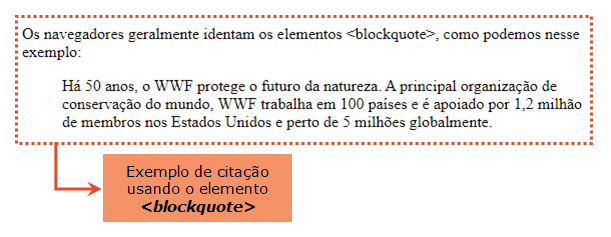
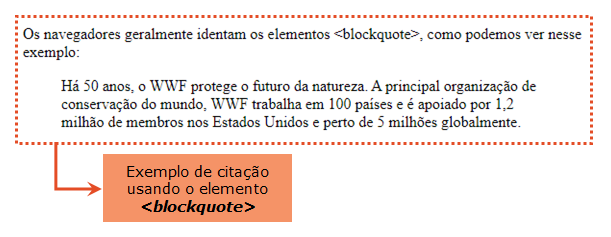
update img blockqoute
corrigi erro de escrita na fig, código e readme

Changed region(s): [[0.0933, 0.3249, 0.964, 0.5612], [0.0311, 0.1181, 0.964, 0.1772], [0.0311, 0.2068, 0.1244, 0.2658]]

diff --git a/exemplos/elementos-semanticos.html b/exemplos/elementos-semanticos.html
@@ -22,7 +22,7 @@
 
     <h2>Citações</h2>
     <h3>Elemento blockquote</h3>
-    <p>Os navegadores geralmente identam os elementos &lt;blockquote&gt;, como podemos nesse exemplo:</p>
+    <p>Os navegadores geralmente identam os elementos &lt;blockquote&gt;, como podemos ver nesse exemplo:</p>
         <blockquote cite = "http://www.worldwildlife.org/who/index.html">
             Há 50 anos, o WWF protege o futuro da natureza.
             A principal organização de conservação do mundo,

diff --git a/README.md b/README.md
@@ -219,7 +219,7 @@ Seguindo a estrutura básica do documento HTML, mostrado acima, podemos criar a 
 ```html
 <p>
     Os navegadores geralmente identam os elementos &lt;blockquote&gt;,
-    como podemos nesse exemplo:
+    como podemos ver nesse exemplo:
 </p>
 
 <blockquote cite = "http://www.worldwildlife.org/who/index.html">
